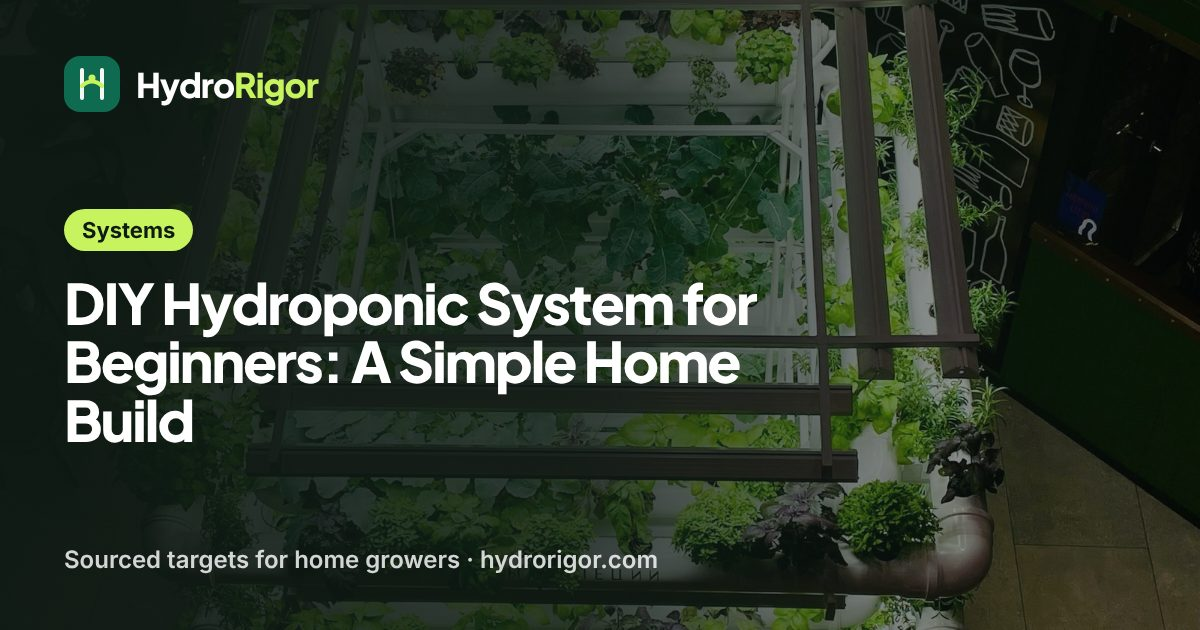
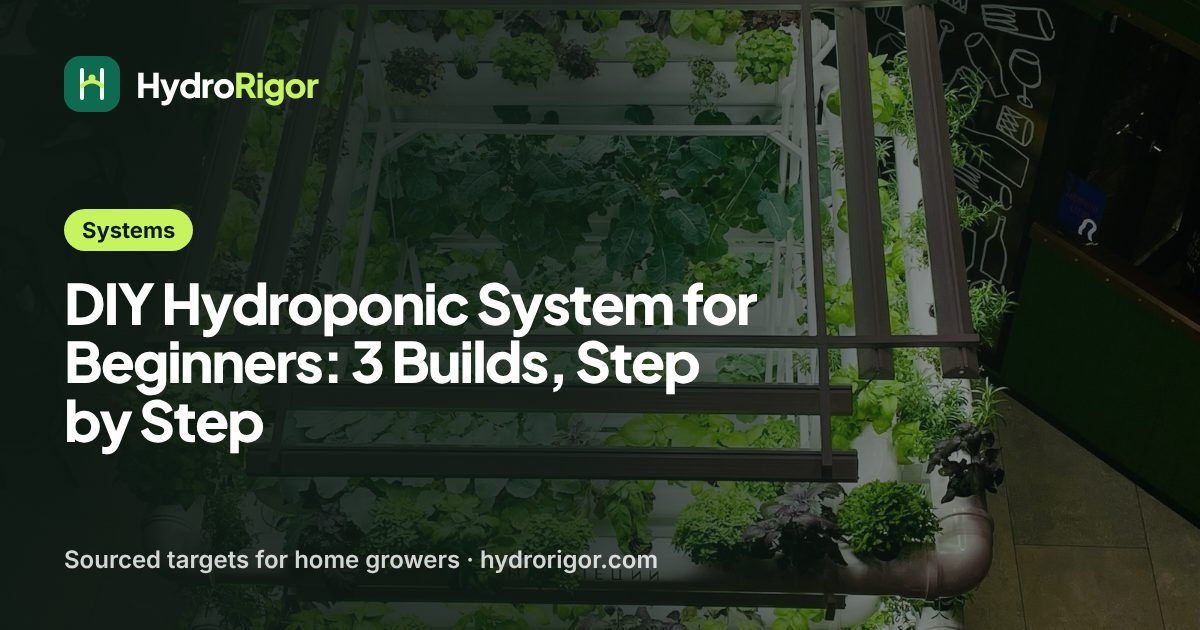
Rebuild the DIY hydroponic system guide
New title "DIY Hydroponic System for Beginners: 3 Builds, Step by Step"
and answer-first description. About 2,130 words: KeyTargets, quick-answer
table, which-build-first guide, safety materials, step-by-step Kratky
bucket, aerated DWC tote (plus a one-plant tomato variation) and Dutch
bucket builds, first-month checks, troubleshooting and FAQ. Two original
diagrams (three builds compared; DWC tote parts). Nine sources, two newly
registered (University of Illinois Extension "Hydroponics at Home";
UF/IFAS Volusia County DWC bucket). Share image and pin regenerated;
queue, handoff and Search Console watch list updated.

Claude-Session: https://claude.ai/code/session_011zSWQv9U5GfhByfPKZnqmb

Changed region(s): [[0.2775, 0.5429, 0.6167, 0.6333], [0.0617, 0.6333, 0.2158, 0.7238]]

diff --git a/src/data/m06-content.ts b/src/data/m06-content.ts
@@ -22,7 +22,7 @@ const items = [
   [2, 'articles', 'best', 'Best Hydroponic Systems for Beginners: What Actually Matters', 'hydroponic-systems-for-beginners', 'commercial research', 'best hydroponic system for beginners', 'METRIC_NOT_REVERIFIED', undefined, undefined, ['mu-hydroponic-farming', 'uga-home-hydroponics'], []],
   [3, 'articles', 'best', 'Indoor Hydroponic System Kits: What to Buy and What to Skip', 'indoor-hydroponic-system-kits', 'transactional research', 'indoor hydroponic system kit', 'METRIC_NOT_REVERIFIED', undefined, undefined, ['uga-home-hydroponics', 'unh-home-hydroponics'], []],
   [4, 'articles', 'systems', 'Deep Water Culture Hydroponics: Complete DWC System Guide', 'deep-water-culture-hydroponics', 'transactional research', 'hydroponic system deep water culture', 'METRIC_NOT_REVERIFIED', undefined, undefined, ['mu-hydroponic-farming', 'unh-home-hydroponics'], ['/tools/ph-ec-targets/']],
-  [5, 'articles', 'systems', 'DIY Hydroponic System for Beginners: A Simple Home Build', 'diy-hydroponic-system-for-beginners', 'informational', 'do it yourself hydroponic system', 'METRIC_NOT_REVERIFIED', undefined, undefined, ['uga-home-hydroponics', 'unh-home-hydroponics'], ['/tools/nutrient-mixing-calculator/']],
+  [5, 'articles', 'systems', 'DIY Hydroponic System for Beginners: 3 Builds, Step by Step', 'diy-hydroponic-system-for-beginners', 'informational', 'do it yourself hydroponic system', 'METRIC_NOT_REVERIFIED', undefined, undefined, ['ifas-kratky-set-and-forget', 'kratky-noncirculating-lettuce', 'illinois-hydroponics-at-home', 'ifas-volusia-dwc-bucket', 'osu-hydro-hints-dwc', 'osu-hydro-hints-buckets', 'osu-hydro-hints-nft', 'vt-system-crop-comparisons', 'okstate-hydroponics-hla6442'], ['/tools/nutrient-mixing-calculator/', '/tools/ph-ec-targets/']],
   [6, 'articles', 'crops', 'Hydroponic Strawberries: pH, EC, Light & Variety Guide', 'hydroponic-strawberries', 'informational', 'hydroponic strawberries', 'VERIFIED_2026-09-12', 8100, 14, ['ua-strawberry-irrigation', 'ua-strawberry-environment', 'ua-strawberry-lighting', 'cornell-indoor-strawberry-basics', 'ua-ceac-berries-cea', 'cornell-strawberry-runners', 'umn-day-neutral-strawberries', 'umn-strawberry-plant-growth', 'illinois-strawberry-observations', 'mu-hydroponic-farming'], ['/tools/ph-ec-targets/']],
   [7, 'articles', 'crops', 'NFT Hydroponic Strawberries: Setup, Flow and Plant Care', 'nft-hydroponic-strawberries', 'informational', 'nft hydroponic strawberries', 'VERIFIED_2026-09-12', 390, 15, ['mu-hydroponic-farming', 'vt-nft-systems', 'illinois-strawberry-observations'], ['/tools/ph-ec-targets/']],
   [8, 'articles', 'crops', 'Hydroponic Lettuce: pH, EC, Light & Best Varieties', 'hydroponic-lettuce', 'informational', 'hydroponic lettuce', 'VERIFIED_2026-09-12', 4400, 27, ['uky-hydroponic-lettuce', 'ifas-lettuce-small-systems', 'ifas-lettuce-cultivars', 'kratky-noncirculating-lettuce', 'mu-hydroponic-farming'], ['/tools/ph-ec-targets/']],

diff --git a/src/data/editorial-sources/m06.ts b/src/data/editorial-sources/m06.ts
@@ -405,6 +405,24 @@ export const m06EditorialSources = [
     sourceType: 'university-extension',
     locator: 'HLA-6442: wick is the simplest system; drip probably the most widely used; NFT has constant flow so no timer; aeroponics needs a short-cycle timer running every few minutes; short-term crops like lettuce usually in NFT or flood-and-drain, longer-term crops in non-recirculating media systems; pH 5.0–6.0, EC 1.5–3 dS/m',
   },
+  {
+    id: 'illinois-hydroponics-at-home',
+    title: 'Hydroponics at Home',
+    publisher: 'University of Illinois Extension',
+    url: 'https://extension.illinois.edu/sites/default/files/inline-files/Home%20Hydroponics.pdf',
+    accessedDate: '2026-11-06',
+    sourceType: 'university-extension',
+    locator: 'Setting up a hydroponic grow tank: materials (container, air stone, pump and check valve, foam board, rockwool or coir cubes, pH test); cover clear sides to prevent algae; cut the board to fit loosely so it floats; check valve prevents backflow; cube bottom reaches the solution; pH about 5.8–6.2, check weekly; 6–8 hours of light; lettuce, spinach, kale and herbs to start',
+  },
+  {
+    id: 'ifas-volusia-dwc-bucket',
+    title: 'Making Your Own, Inexpensive Hydroponic Bucket (Deep Water Culture)',
+    publisher: 'UF/IFAS Extension Volusia County (J. Sewards)',
+    url: 'https://www.volusia.org/core/fileparse.php/4461/urlt/making-your-own-hydroponic-bucket.pdf',
+    accessedDate: '2026-11-06',
+    sourceType: 'university-extension',
+    locator: 'One-plant 5-gallon DWC bucket: 6-inch pot in a 6-inch lid hole, four 1/4-inch holes for a tomato cage, a 1-inch side hole for the air tube and topping up; aquarium pump with one or two air stones; roots can stay submerged if the solution is well oxygenated; suited to long-term crops such as tomatoes, peppers and cucumbers',
+  },
 ] as const satisfies readonly M06EditorialSource[];
 
 export const m06EditorialSourceById = new Map(

diff --git a/.agent/state/CURRENT_HANDOFF.md b/.agent/state/CURRENT_HANDOFF.md
@@ -51,6 +51,7 @@ Updated: 2026-11-05
 Guides published by automated runs under `HydroRigor Editorial`. When Najeeb has read one
 and approves, switch its byline to `Najeeb`.
 
+- `/systems/diy-hydroponic-system-for-beginners/` — "DIY Hydroponic System for Beginners: 3 Builds, Step by Step" (2026-11-06). Sources: UF/IFAS HS1488 and Volusia County DWC bucket, Kratky Acta Hort 843, University of Illinois Extension "Hydroponics at Home", Oregon State EM 9455/9456/9457, Virginia Tech SPES-466, Oklahoma State HLA-6442. Note: no source gives a home timer schedule for Dutch buckets; the page says so.
 - `/best/hydroponic-system-for-home-growers/` — "Best Hydroponic System for Home Growers: DWC, NFT or Drip?" (2026-11-06). Sources: UF/IFAS HS1488 (Kratky) and HS1422, Kratky Acta Hort 843, Virginia Tech SPES-466 trial, Oregon State Hydro hints EM 9453/9455/9456/9457/9458, Oklahoma State HLA-6442. Note: Virginia Tech yields are one trial at one site; the page says so.
 - `/crops/hydroponic-lettuce-seeds/` — "Hydroponic Lettuce Seeds: Varieties, Germination & Storage" (2026-11-05). Sources: Kentucky CCD-CP-63, UF/IFAS HS1258/HS1422 and thermodormancy, Ohio State e-GRO tipburn trial, Cornell CEA handbook, Nebraska G2090, Illinois and SDSU seed storage. Note: extension sources disagree on lettuce seed life (2, 5 and 6 years); the page shows all three.
 

diff --git a/.agent/state/CURRENT_MILESTONE.md b/.agent/state/CURRENT_MILESTONE.md
@@ -49,7 +49,7 @@ first is the fastest route to page 1. Keep each page's route and title intent.
 4. [ ] `/nutrients-water/hydroponic-nutrients-for-tomatoes/` — rebuild. Search Console:
        "hydroponic fertilizer tomatoes" (position 62) and "best hydroponic nutrients for
        tomatoes" (position 66).
-5. [ ] `/systems/diy-hydroponic-system-for-beginners/` — rebuild. Search Console:
+5. [x] `/systems/diy-hydroponic-system-for-beginners/` — rebuilt 2026-11-06 ("DIY Hydroponic System for Beginners: 3 Builds, Step by Step"). Search Console:
        "diy hydroponics systems" (position 81) and "hydroponics diy system" (position 99).
 6. [ ] New guide `/crops/hydroponic-basil/` — hydroponic basil (880, difficulty 11; Ubersuggest 2026-11-03)
 7. [ ] `/crops/hydroponic-tomatoes/` — hydroponic tomatoes (1,900, difficulty 29)

diff --git a/docs/research/search-console/log.md b/docs/research/search-console/log.md
@@ -15,4 +15,5 @@ Figures are copied from Search Console (web search, last 28 days unless noted); 
 | 2026-11-05 | /best/hydroponic-system-for-home-growers/ | Answer-first description; 4 new internal links | 2026-11-19 |
 | 2026-11-06 | /best/hydroponic-system-for-home-growers/ | Full rebuild (title, 2,480 words, 2 diagrams, 10 sources); baseline position 14 for "most effective hydroponic system" | 2026-11-20, 2026-12-04 |
 | 2026-11-05 | /systems/diy-hydroponic-system-for-beginners/ | 4 new internal links | 2026-11-19 |
+| 2026-11-06 | /systems/diy-hydroponic-system-for-beginners/ | Full rebuild (title, 2,130 words, 2 diagrams, 9 sources); baseline positions 81 and 99 | 2026-11-20, 2026-12-04 |
 | 2026-11-05 | /nutrients-water/hydroponic-nutrients-for-tomatoes/ | 1 new internal link | 2026-11-19 |
